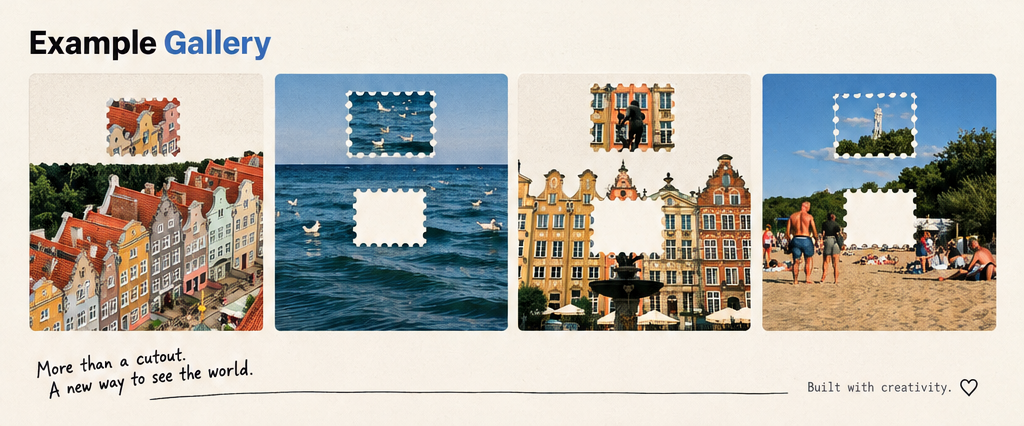
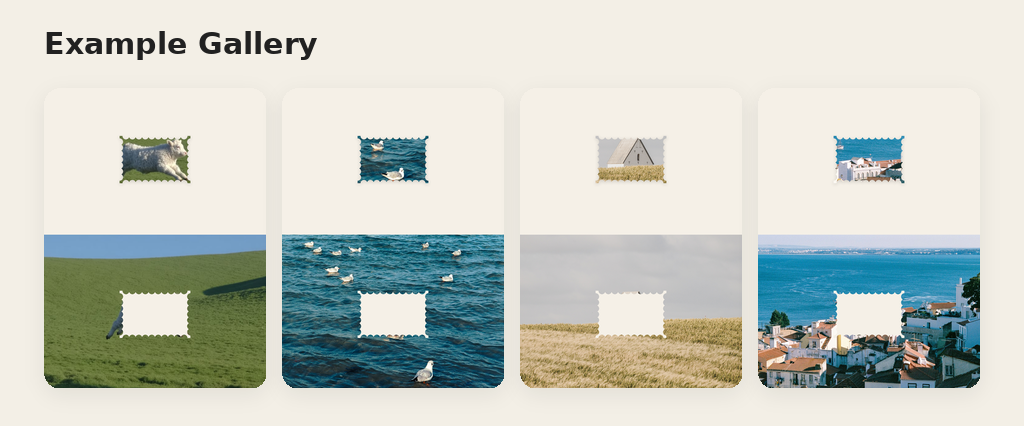
Update README and preview examples

diff --git a/README.md b/README.md
@@ -2,9 +2,11 @@
 
 # Postage Cutout Skill
 
-Turn any photo into a clean postage-stamp cutout and editorial collage.
+**Turn any photo into a postage cutout — with one natural-language instruction.**
 
-**Exact crop · clean perforation · matching negative space**
+Upload a photo → say what you want → get an exact crop, perforated stamp edge, and matching negative space.
+
+`No manual masking` · `No stamp-border templates` · `No prompt tweaking`
 
 ![Postage Cutout Skill — Before to After](assets/readme/hero.png)
 
@@ -34,6 +36,8 @@ The default effect is:
 - no extra text, postmark, or decoration by default.
 
 > **Core rule:** the stamp above must be the exact crop removed from the original image below.
+
+The README examples in this repo were generated with the Skill itself.
 
 ---
 
@@ -151,15 +155,17 @@ Transparent background outside the stamp shape.
 
 ![Postage Cutout examples](assets/readme/gallery.png)
 
+All sample images below were generated with the Skill itself, using travel, animal, seaside, and minimalist landscape photos.
+
 Works especially well with:
 
 | Source | Why |
 |---|---|
-| Architecture | Details stay readable at small size |
+| Animals in open fields | One clear subject makes the extracted stamp instantly readable |
 | Seaside / water | Large color blocks make the stamp edge obvious |
-| Travel photography | Feels like a visual souvenir |
-| Landmarks | One iconic detail becomes a strong focal point |
-| Editorial imagery | Negative space becomes part of the composition |
+| Minimal houses / sky | Clean structure keeps the cutout neat and quiet |
+| Coastal towns / rooftops | Dense details make the stamp feel like a travel keepsake |
+| Travel photography | The negative space becomes part of the final composition |
 
 ---
 
@@ -286,11 +292,11 @@ Recommended Topics:
 ai-skill
 design-skill
 image-editing
-postage-cutout
-collage
-creative-coding
-figma
+photo-editing
 image-processing
+postage-cutout
+postage-stamp
+collage
 ```
 
 For **Social preview**, upload:
